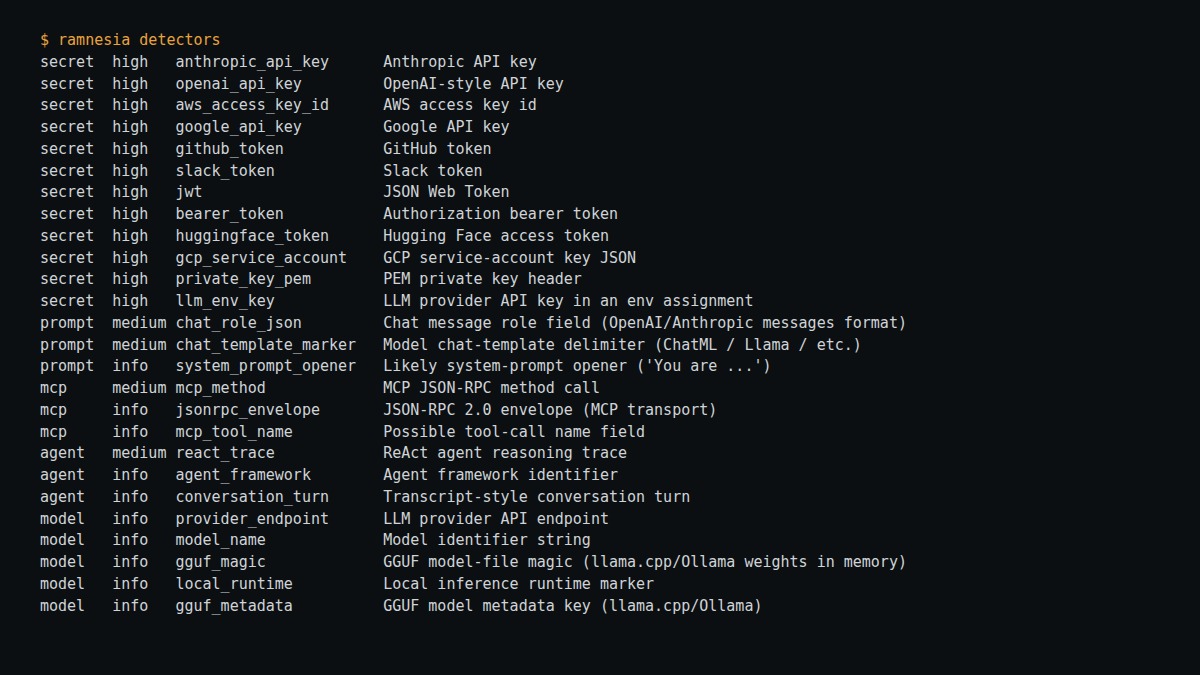
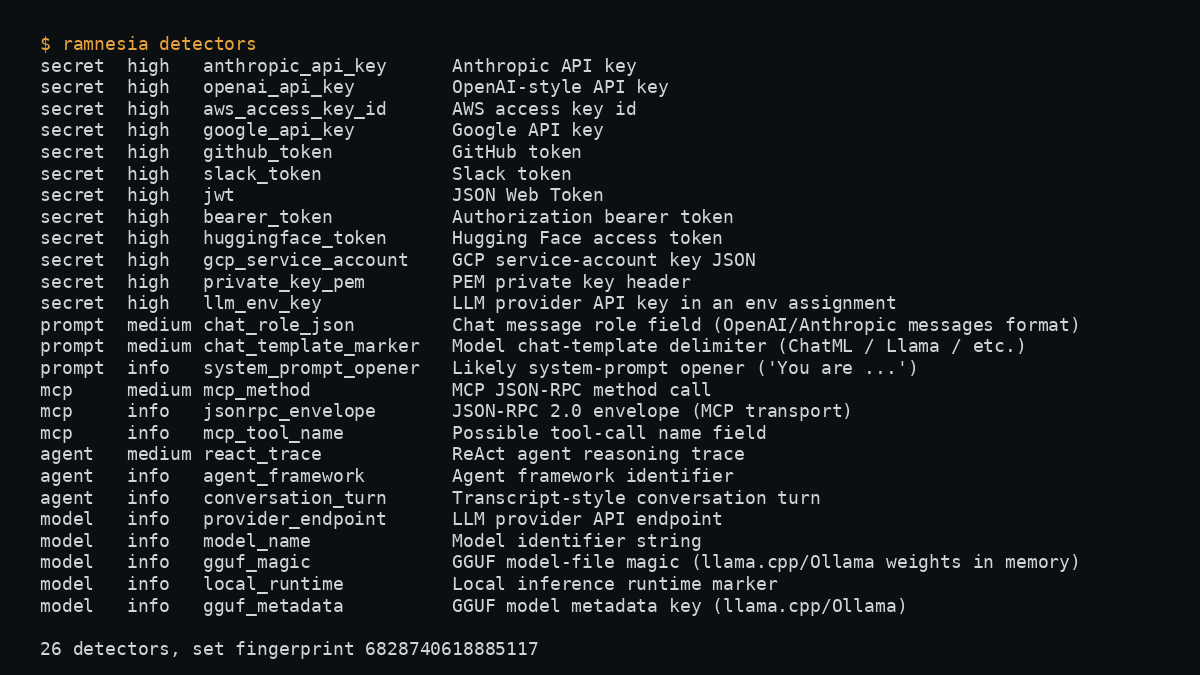
Refresh terminal capture for the 0.5.0 detectors output

Changed region(s): [[0.0308, 0.0311, 0.8942, 0.9956]]

diff --git a/README.md b/README.md
@@ -171,4 +171,4 @@ Designed and built by Maak — https://github.com/0xM44k
 
 ![Terminal output captured in this session](docs/evidence-terminal.png)
 
-The image above is a capture of the command shown at the top of the image, run against the files in this repository on 2026-10-28. It is the tool's actual output, rendered in a terminal panel for legibility; no output lines were invented.
+The image above is a capture of the command shown at the top of the image, run against the files in this repository on 2026-11-01. It is the tool's actual output, rendered in a terminal panel for legibility; no output lines were invented.
